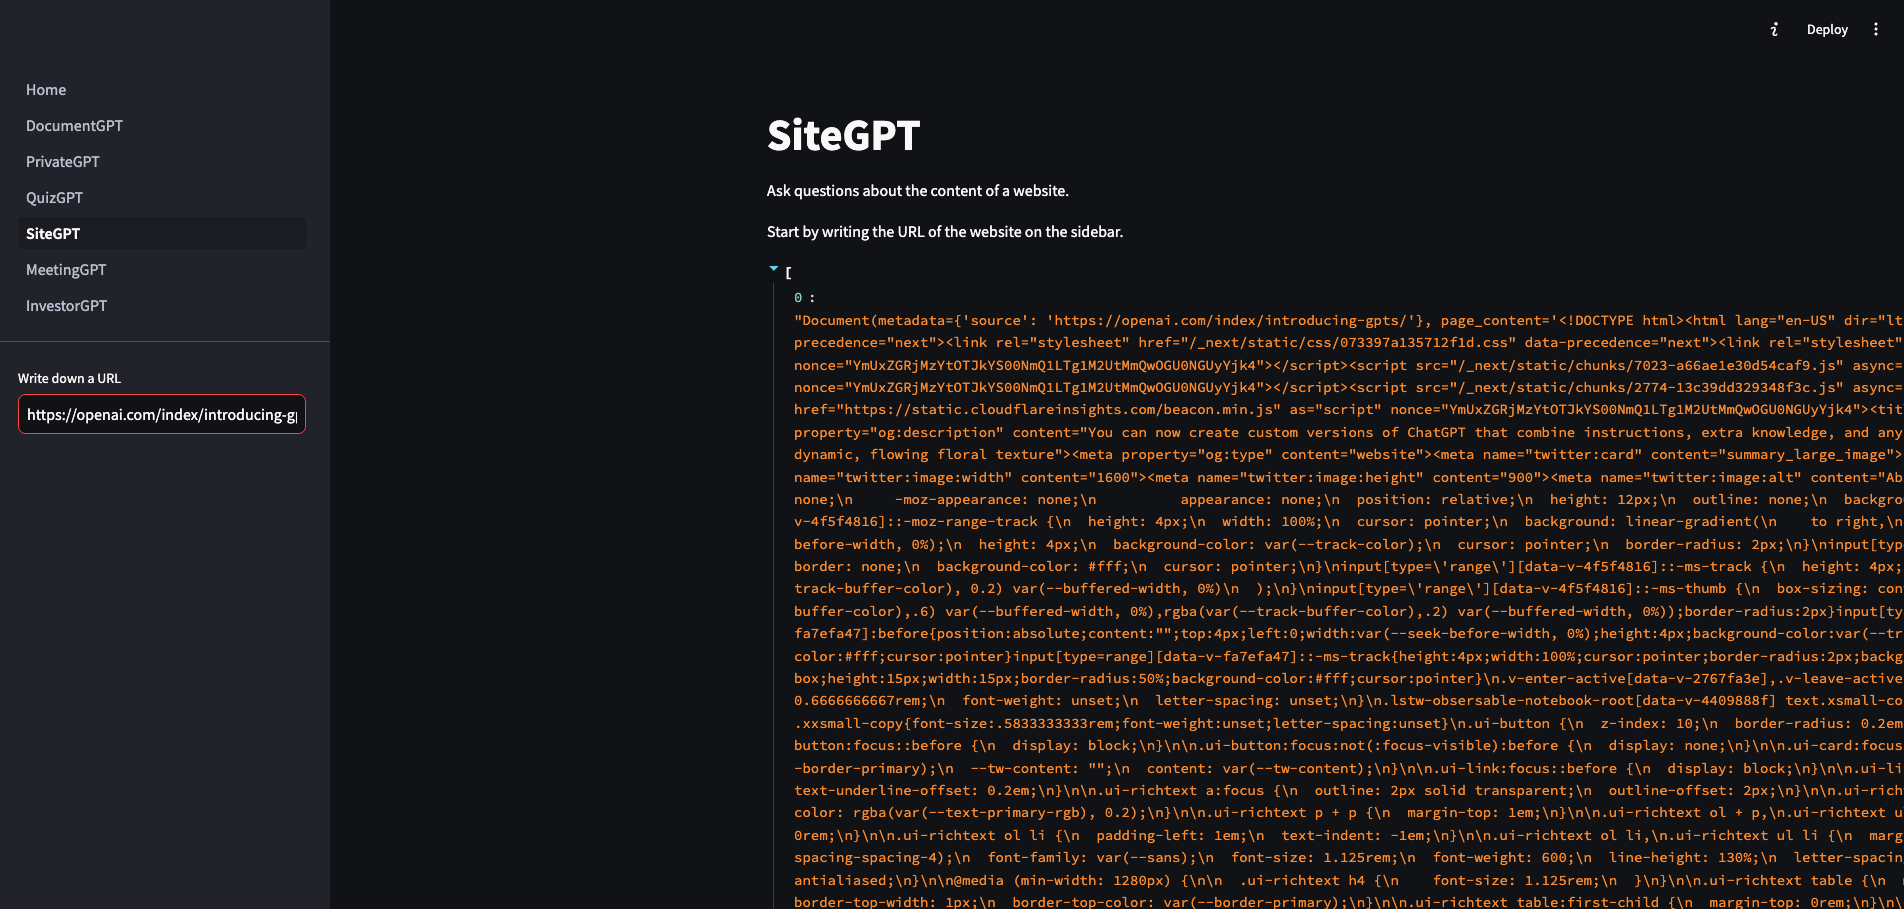
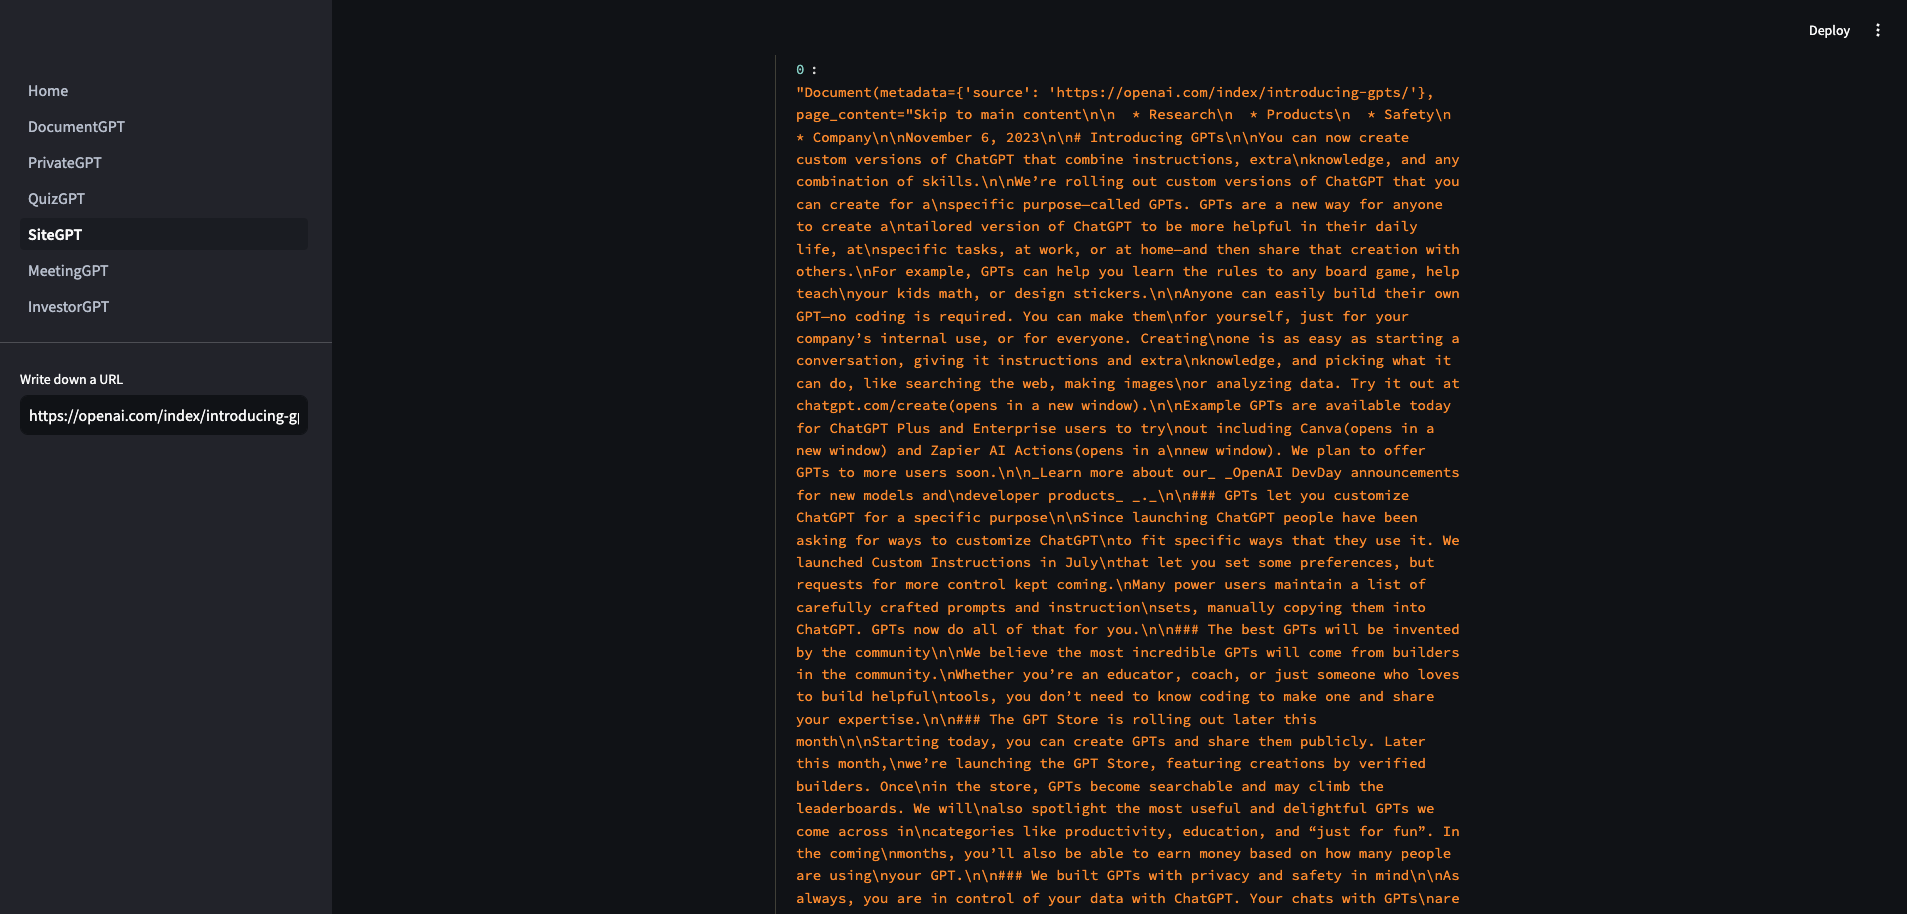
FIX IMAGES

diff --git a/pages/04_SiteGPT.py b/pages/04_SiteGPT.py
@@ -30,4 +30,4 @@ if url:
     docs = loader.load()
     # Transform the HTML to text
     transformed = html2text_transformer.transform_documents(docs)
-    st.write(docs)
+    st.write(transformed)

diff --git a/README.md b/README.md
@@ -4370,7 +4370,7 @@ if url:
     docs = loader.load()
     # Transform the HTML to text
     transformed = html2text_transformer.transform_documents(docs)
-    st.write(docs)
+    st.write(transformed)
 
 ```
 
